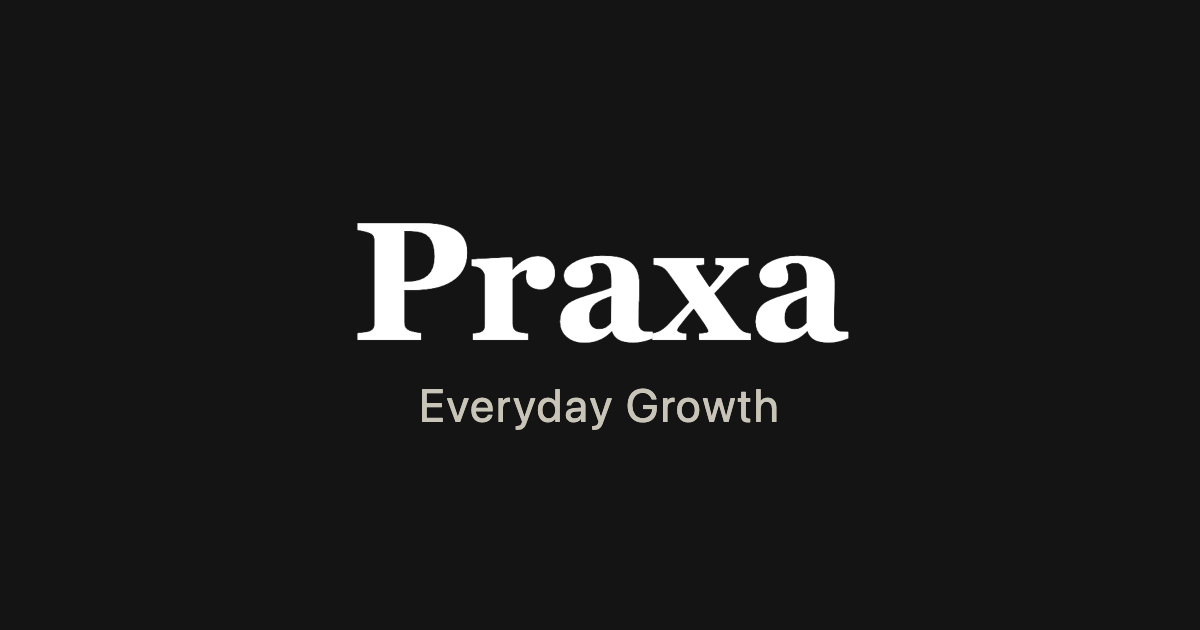
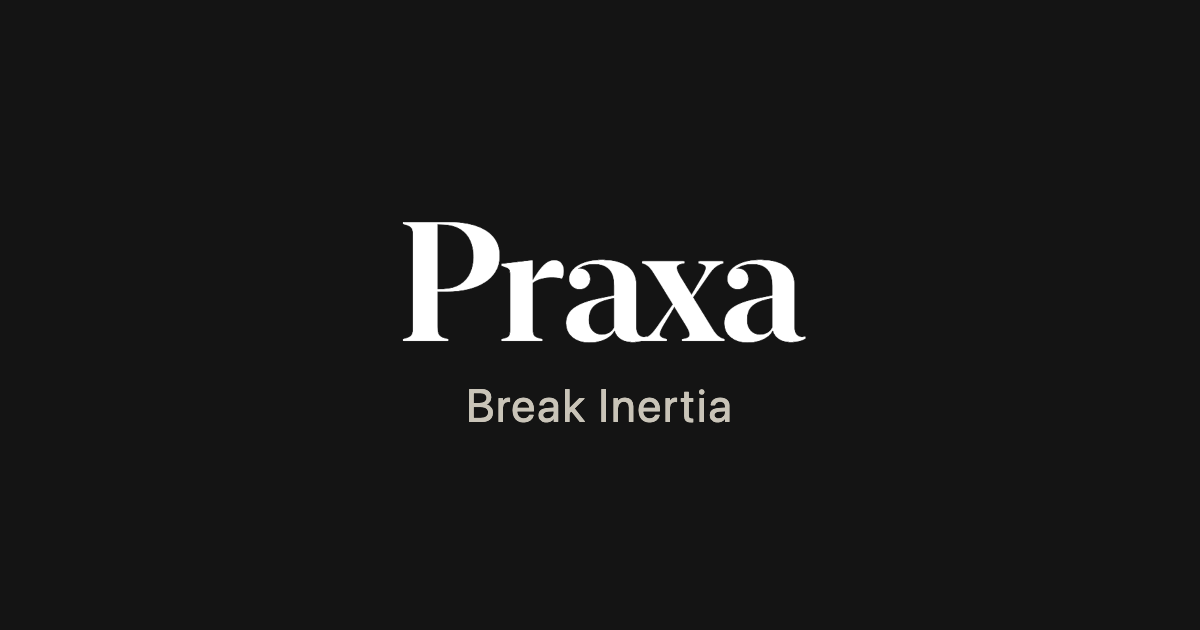
Add /contact support page; replace placeholder landing copy (#2)
Apple's App Store record needs a dedicated Support URL, so praxa.page/contact
now exists and is linked from the footer of every page.

The page is deliberately static — a mailto: plus instructions, no form.
GitHub Pages cannot process a POST, so a working form would require a
third-party backend receiving names, emails, and message bodies. That is a
new data processor the privacy policy does not disclose, and amending the
policy days before submission risks the App Privacy label consistency the
reviewer checks. The contact address matches the one already published in
the policy.

Landing page: the lorem ipsum lede is replaced with the real description
that ships to the App Store, left-aligned inside the centered hero because
centered body text gets hard to scan across three paragraphs. The tagline
moves from "Everyday Growth" to "Break Inertia" to match the App Store name,
and og-image.png is regenerated to suit. Meta, OG, and Twitter descriptions
now say "A tool for shaping your life through deliberate habits" — the plain
term, since these surfaces are read by people with no context for the app.

Changed region(s): [[0.2775, 0.3317, 0.7092, 0.5429], [0.3392, 0.6032, 0.6475, 0.6937]]

diff --git a/index.html b/index.html
@@ -3,10 +3,10 @@
   <head>
     <meta charset="utf-8" />
     <meta name="viewport" content="width=device-width, initial-scale=1" />
-    <title>Praxa — Everyday Growth</title>
+    <title>Praxa — Break Inertia</title>
     <meta
       name="description"
-      content="Praxa is a quiet, daily practice tracker for iPhone."
+      content="A tool for shaping your life through deliberate habits."
     />
     <link rel="canonical" href="https://praxa.page/" />
 
@@ -18,20 +18,20 @@
     <!-- Open Graph / Twitter (link unfurl preview) -->
     <meta property="og:type" content="website" />
     <meta property="og:site_name" content="Praxa" />
-    <meta property="og:title" content="Praxa — Everyday Growth" />
+    <meta property="og:title" content="Praxa — Break Inertia" />
     <meta
       property="og:description"
-      content="A quiet daily practice tracker for iPhone."
+      content="A tool for shaping your life through deliberate habits."
     />
     <meta property="og:url" content="https://praxa.page/" />
     <meta property="og:image" content="https://praxa.page/og-image.png" />
     <meta property="og:image:width" content="1200" />
     <meta property="og:image:height" content="630" />
     <meta name="twitter:card" content="summary_large_image" />
-    <meta name="twitter:title" content="Praxa — Everyday Growth" />
+    <meta name="twitter:title" content="Praxa — Break Inertia" />
     <meta
       name="twitter:description"
-      content="A quiet daily practice tracker for iPhone."
+      content="A tool for shaping your life through deliberate habits."
     />
     <meta name="twitter:image" content="https://praxa.page/og-image.png" />
 
@@ -41,13 +41,21 @@
     <main>
       <div class="wrap hero">
         <h1>Praxa</h1>
-        <p class="tagline">Everyday Growth</p>
-        <!-- PLACEHOLDER COPY — replace with 2–3 real sentences. -->
-        <p class="lede">
-          Lorem ipsum dolor sit amet, consectetur adipiscing elit. Praesent
-          commodo cursus magna, vel scelerisque nisl consectetur et. Donec id
-          elit non mi porta gravida at eget metus.
-        </p>
+        <p class="tagline">Break Inertia</p>
+        <div class="lede">
+          <p>
+            Our actions shape our lives. Every repetition carves its path a
+            little deeper, making it easier to choose that direction again — for
+            better or worse.
+          </p>
+          <p>
+            It's natural to drift into these habitual, comfortable choices that
+            become our defaults. Knowing, or suspecting, that a better path
+            exists changes nothing until we walk it. And that takes practice: a
+            deliberate, energized commitment to action.
+          </p>
+          <p>Praxa is a tool for breaking that inertia.</p>
+        </div>
         <div class="cta">
           <a
             class="badge"
@@ -69,6 +77,7 @@
               />
             </picture>
           </a>
+          <p class="cta-note">Build habits that shape you.</p>
         </div>
       </div>
     </main>
@@ -78,6 +87,7 @@
         <span class="copyright">© 2026 Praxa</span>
         <span class="footer-links">
           <a href="/privacy">Privacy Policy</a>
+          <a href="/contact">Contact</a>
           <a
             href="https://www.apple.com/legal/internet-services/itunes/dev/stdeula/"
             target="_blank"

diff --git a/contact/index.html b/contact/index.html
@@ -1,0 +1,97 @@
+<!DOCTYPE html>
+<html lang="en">
+  <head>
+    <meta charset="utf-8" />
+    <meta name="viewport" content="width=device-width, initial-scale=1" />
+    <title>Contact — Praxa</title>
+    <meta
+      name="description"
+      content="How to get in touch about Praxa — support, bugs, questions, and feedback."
+    />
+    <link rel="canonical" href="https://praxa.page/contact" />
+
+    <link rel="icon" type="image/png" sizes="32x32" href="/favicon-32.png" />
+    <link rel="icon" type="image/png" sizes="16x16" href="/favicon-16.png" />
+    <link rel="apple-touch-icon" href="/apple-touch-icon.png" />
+
+    <meta property="og:type" content="website" />
+    <meta property="og:site_name" content="Praxa" />
+    <meta property="og:title" content="Contact — Praxa" />
+    <meta
+      property="og:description"
+      content="How to get in touch about Praxa — support, bugs, questions, and feedback."
+    />
+    <meta property="og:url" content="https://praxa.page/contact" />
+    <meta property="og:image" content="https://praxa.page/og-image.png" />
+
+    <link rel="stylesheet" href="/style.css" />
+  </head>
+  <body>
+    <header class="site-head">
+      <div class="wrap"><a href="/">Praxa</a></div>
+    </header>
+
+    <main>
+      <article class="wrap prose">
+        <h1>Contact</h1>
+
+        <p>
+          Praxa is made by one person. Email is the best way to reach us —
+          support, bugs, questions about your data, or just telling us the app
+          got something wrong.
+        </p>
+
+        <h2>Email</h2>
+
+        <p>
+          <a href="mailto:praxa.app@gmail.com?subject=Praxa%20support"
+            >praxa.app@gmail.com</a
+          >
+        </p>
+
+        <p>
+          If that link doesn't open your mail app, the address is
+          <strong>praxa.app@gmail.com</strong>.
+        </p>
+
+        <p>
+          For a bug, it helps to say what you were doing, what you expected, and
+          what happened instead — plus your iPhone model and iOS version.
+        </p>
+
+        <h2>From inside the app</h2>
+
+        <p>
+          The <strong>Fast feedback</strong> card in Settings sends a note
+          without leaving Praxa, and attaches your app version so we don't have
+          to ask. Your email address is optional there — but we can only reply
+          if you include it.
+        </p>
+
+        <h2>Your data</h2>
+
+        <p>
+          Questions about what Praxa stores, or a request to delete feedback
+          you've sent, go to the same address. What we hold and how long we hold
+          it is written out in the <a href="/privacy">Privacy Policy</a>.
+        </p>
+      </article>
+    </main>
+
+    <footer class="site-foot">
+      <div class="wrap footer-inner">
+        <span class="copyright">© 2026 Praxa</span>
+        <span class="footer-links">
+          <a href="/">Home</a>
+          <a href="/privacy">Privacy Policy</a>
+          <a
+            href="https://www.apple.com/legal/internet-services/itunes/dev/stdeula/"
+            target="_blank"
+            rel="noopener noreferrer"
+            >Terms</a
+          >
+        </span>
+      </div>
+    </footer>
+  </body>
+</html>

diff --git a/style.css b/style.css
@@ -112,14 +112,32 @@ main {
   margin: 0;
 }
 
+/* Left-aligned inside a centered hero: the block is multi-paragraph, and
+   centered body text gets hard to scan past a couple of lines. */
 .hero .lede {
   max-width: 30rem;
   margin: 1.25rem auto 0;
   color: var(--text);
+  text-align: left;
+}
+
+.hero .lede p {
+  margin: 0 0 1rem;
+}
+
+.hero .lede p:last-child {
+  margin-bottom: 0;
 }
 
 .hero .cta {
   margin-top: 2rem;
+}
+
+/* Plain-language line under the badge — the one place the page says, in the
+   familiar term, what Praxa is. Centered even though the lede is flush-left. */
+.hero .cta-note {
+  margin: 1rem 0 0;
+  color: var(--text-muted);
 }
 
 /* Official Apple badge — fixed height per Apple's guidelines, unmodified art. */

diff --git a/privacy/index.html b/privacy/index.html
@@ -309,6 +309,7 @@
         <span class="copyright">© 2026 Praxa</span>
         <span class="footer-links">
           <a href="/">Home</a>
+          <a href="/contact">Contact</a>
           <a
             href="https://www.apple.com/legal/internet-services/itunes/dev/stdeula/"
             target="_blank"

diff --git a/about/index.html b/about/index.html
@@ -31,6 +31,7 @@
         <span class="footer-links">
           <a href="/">Home</a>
           <a href="/privacy">Privacy Policy</a>
+          <a href="/contact">Contact</a>
           <a
             href="https://www.apple.com/legal/internet-services/itunes/dev/stdeula/"
             target="_blank"

diff --git a/_src/og-image.html b/_src/og-image.html
@@ -41,7 +41,7 @@
   <body>
     <div class="card">
       <div class="wordmark">Praxa</div>
-      <div class="tagline">Everyday Growth</div>
+      <div class="tagline">Break Inertia</div>
     </div>
   </body>
 </html>

diff --git a/README.md b/README.md
@@ -10,7 +10,15 @@ build step, no JavaScript. Hosted on **GitHub Pages** behind the Porkbun domain
 | --- | --- |
 | `praxa.page/` | `index.html` — landing hero |
 | `praxa.page/privacy` | `privacy/index.html` — privacy policy |
+| `praxa.page/contact` | `contact/index.html` — support page (App Store Support URL) |
 | `praxa.page/about` | `about/index.html` — placeholder |
+
+`/contact` is the **Support URL** on the App Store Connect record, so it has to stay
+reachable. It is deliberately static — a `mailto:` plus instructions, no form: GitHub
+Pages can't process a POST, and a third-party form backend would be a new data
+processor the privacy policy doesn't disclose. The contact address
+(`praxa.app@gmail.com`) must match the one in the privacy policy and in App Store
+Connect.
 
 The privacy policy content is the HTML twin of `app_demo_1/docs/legal/privacy-policy.md`.
 **If you edit the policy, update both.**
